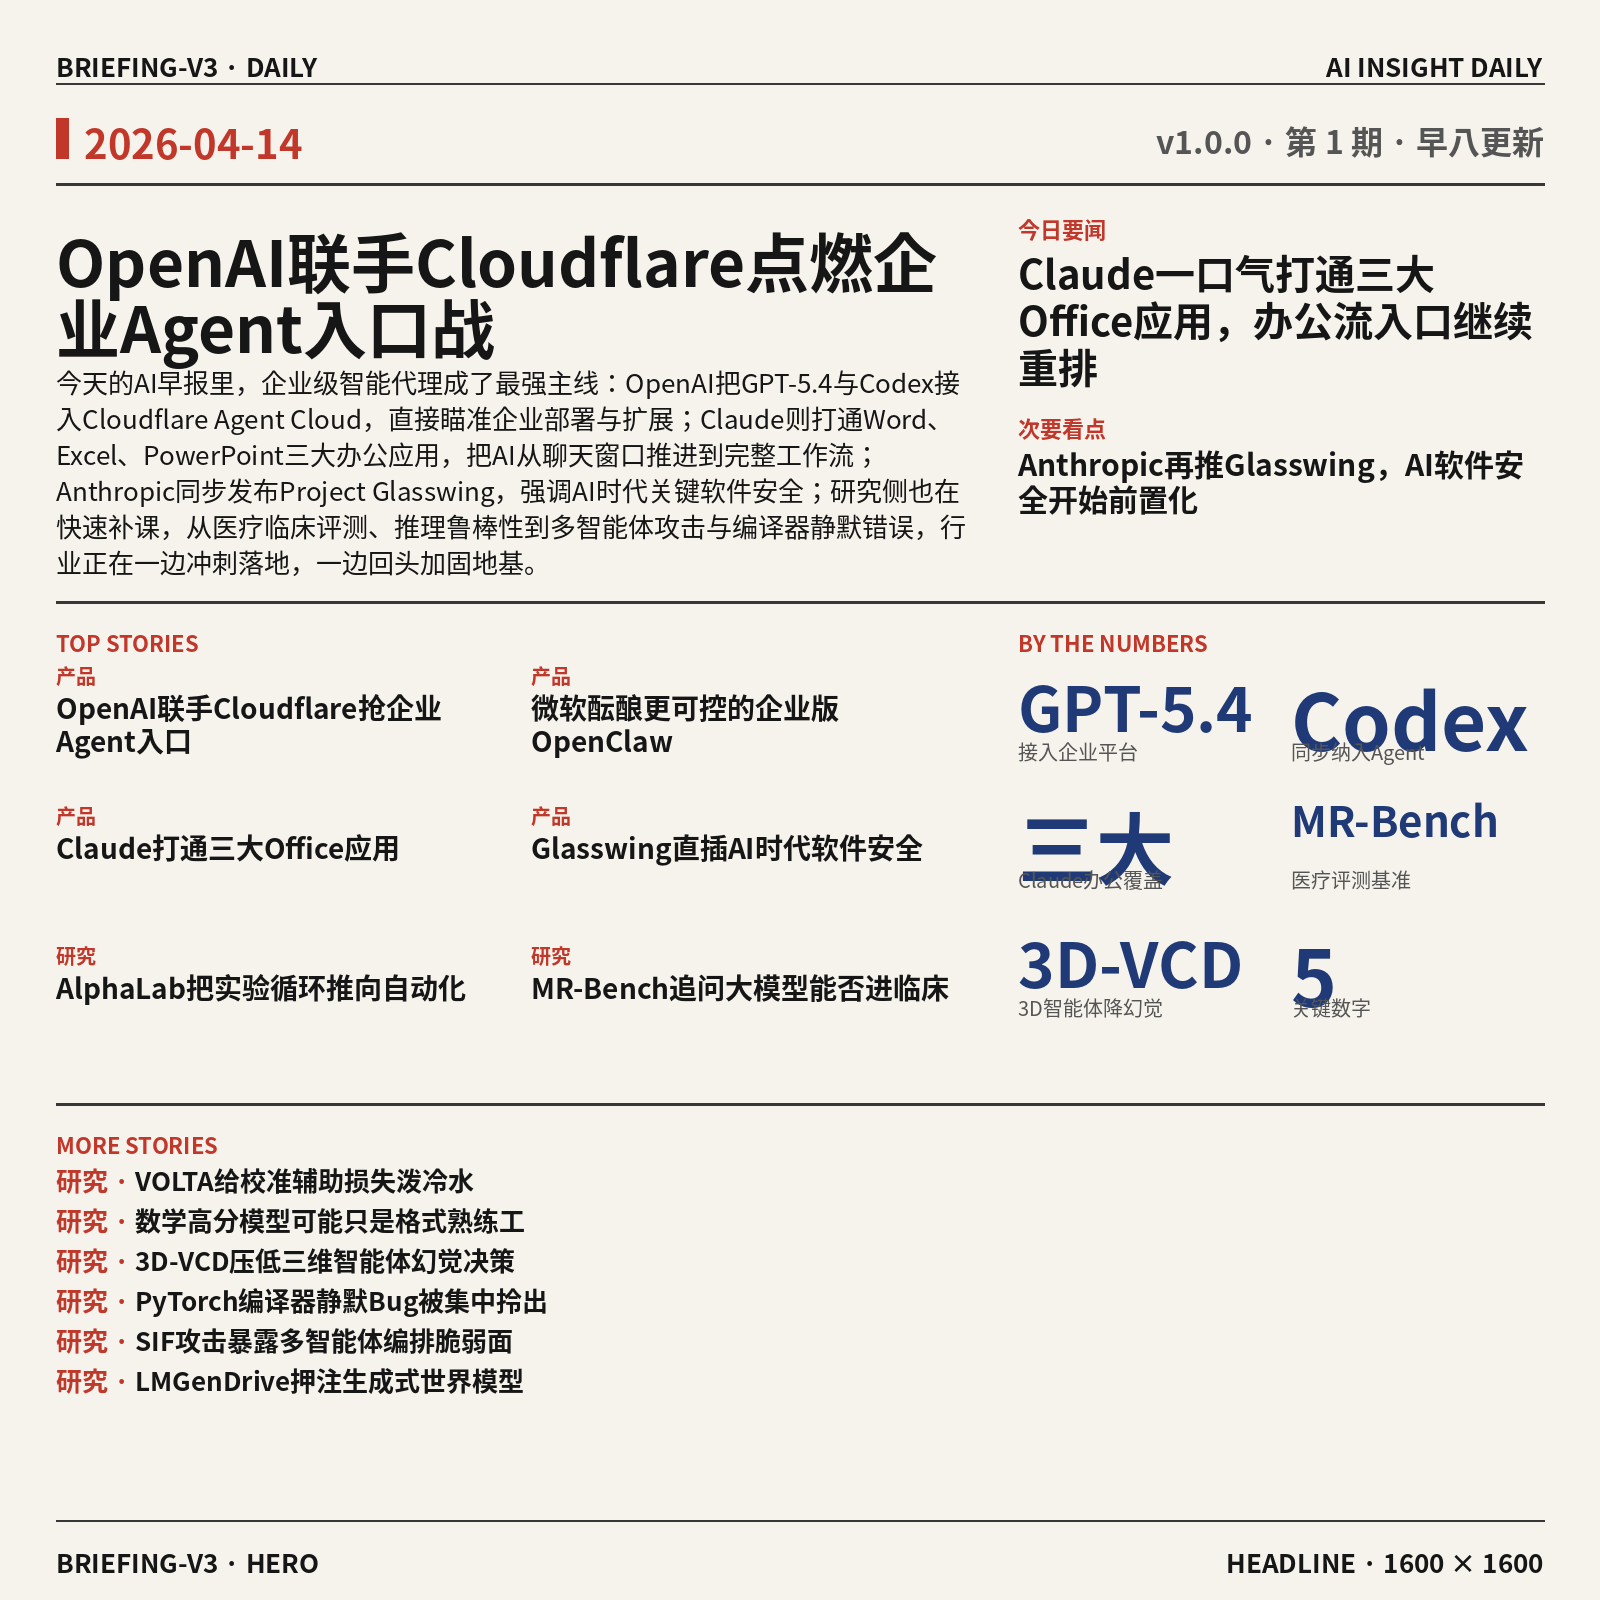
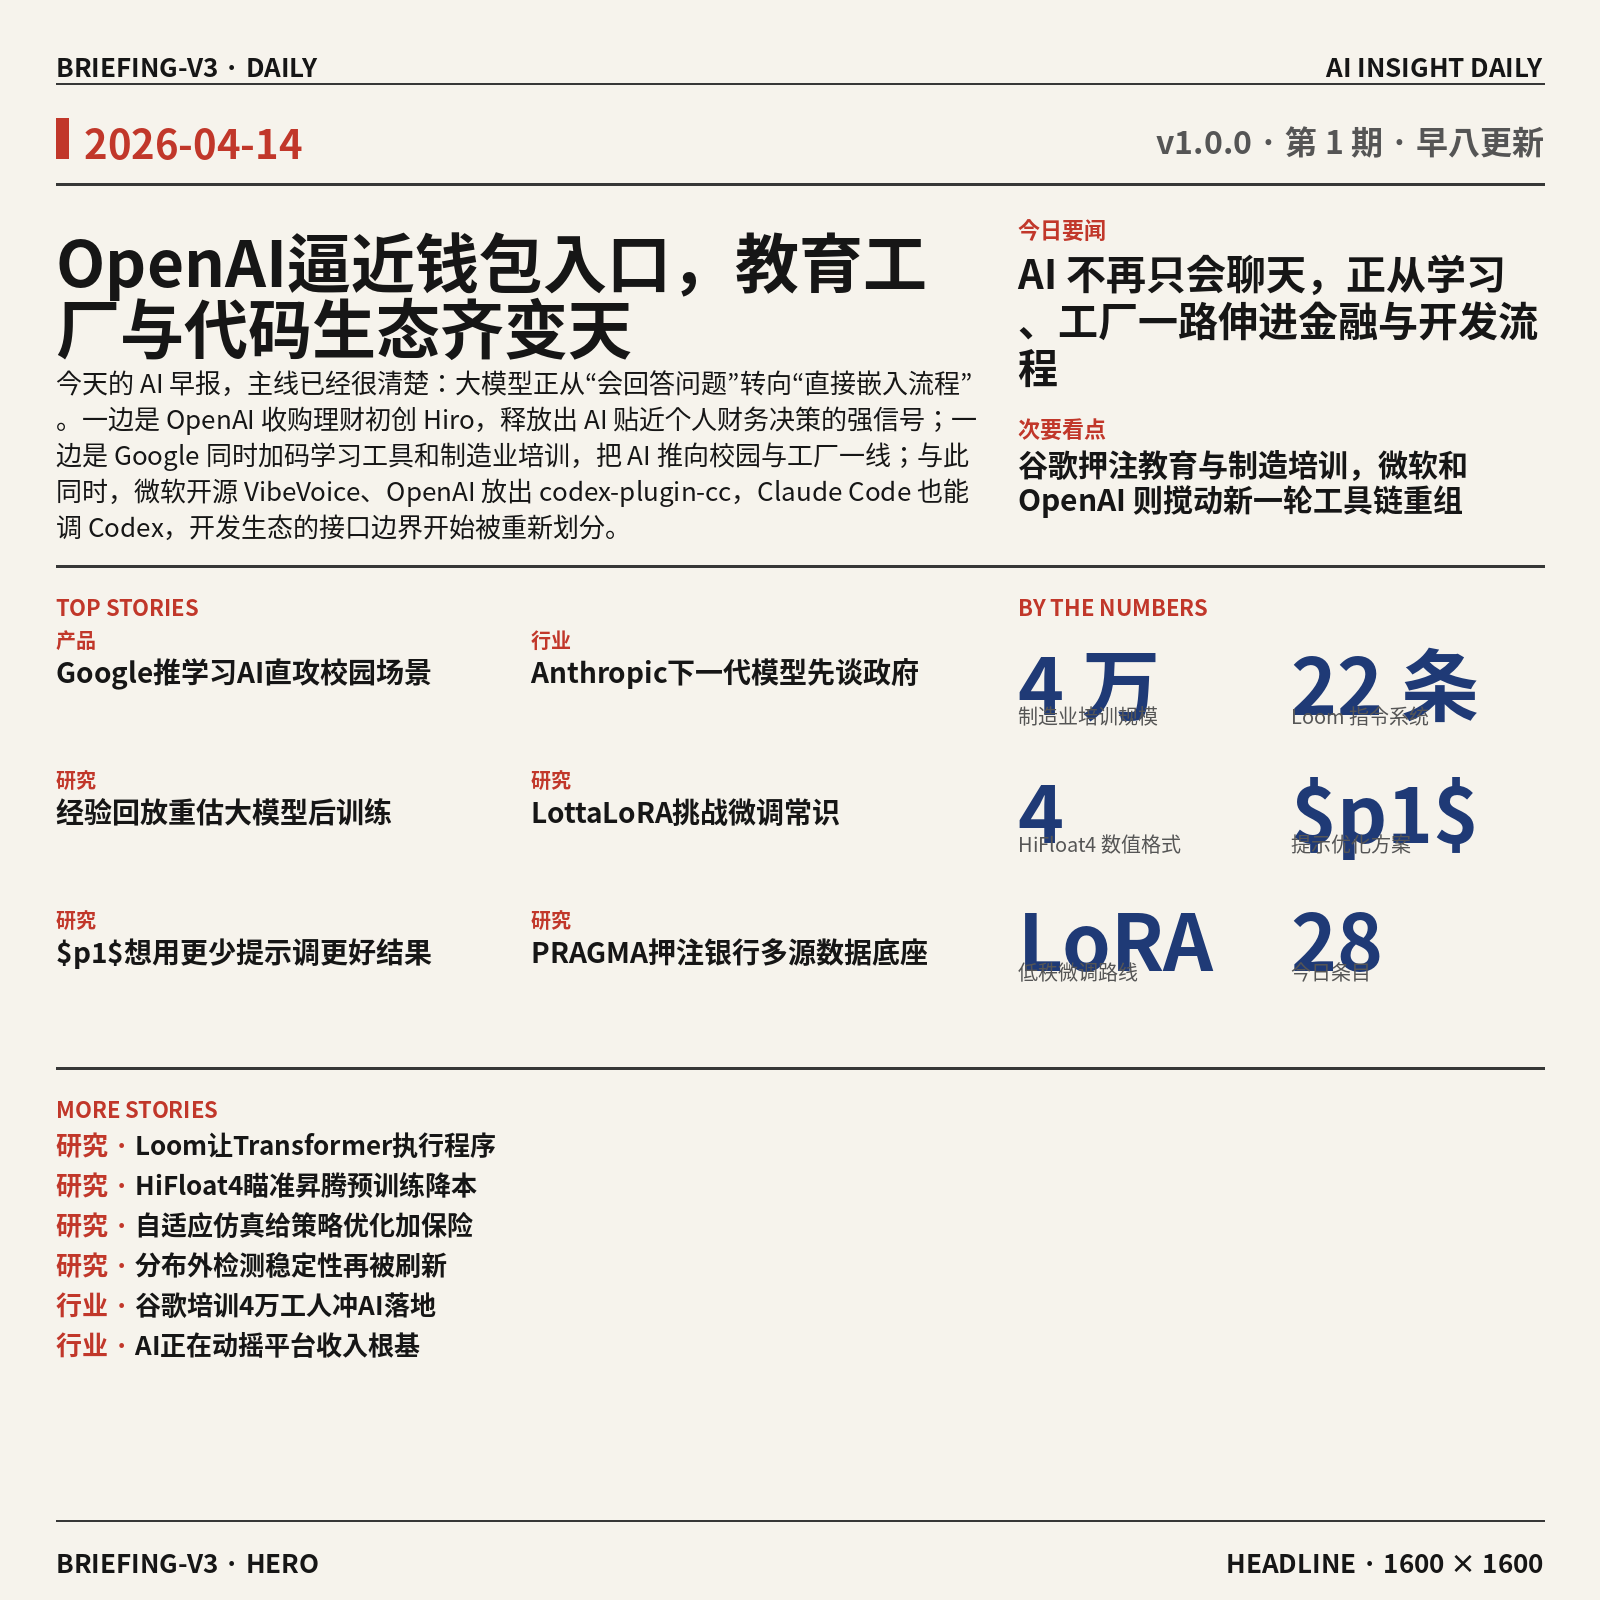
fix: 04-14 补全 opensource + social 两个模块（LLM 502 恢复后重跑）

diff --git a/content/cn/_index.md b/content/cn/_index.md
@@ -29,7 +29,7 @@ AI 日报
 
 <!-- LATEST_6_CARDS_START -->
 <div class="briefing-card-grid">
-<a href="/ai-daily-site/2026/2026-04/2026-04-14/" class="briefing-card"><strong>AI资讯日报 2026/4/14</strong><br><small>OpenAI 联手 Cloudflare 把 GPT-5.4 和 Codex 接入 Agent Cloud</small></a>
+<a href="/ai-daily-site/2026/2026-04/2026-04-14/" class="briefing-card"><strong>AI资讯日报 2026/4/14</strong><br><small>OpenAI 收购理财初创 Hiro，ChatGPT 悄然逼近财务规划</small></a>
 <a href="/ai-daily-site/2026/2026-04/2026-04-13/" class="briefing-card"><strong>AI资讯日报 2026/4/13</strong><br><small>Meta 造出“AI 版扎克伯格”直接下场管员工，Anthropic Mythos 被推入银行测试</small></a>
 <a href="/ai-daily-site/2026/2026-04/2026-04-12/" class="briefing-card"><strong>AI资讯日报 2026/4/12</strong><br><small>Anthropic 企业 AI 支出逼近甚至有望反超 OpenAI</small></a>
 <a href="/ai-daily-site/2026/2026-04/2026-04-11/" class="briefing-card"><strong>AI资讯日报 2026/4/11</strong><br><small>Overworld 推出 Waypoint-1.5，普通 Mac 和 Windows 也能生成 AI 3D 世界</small></a>
